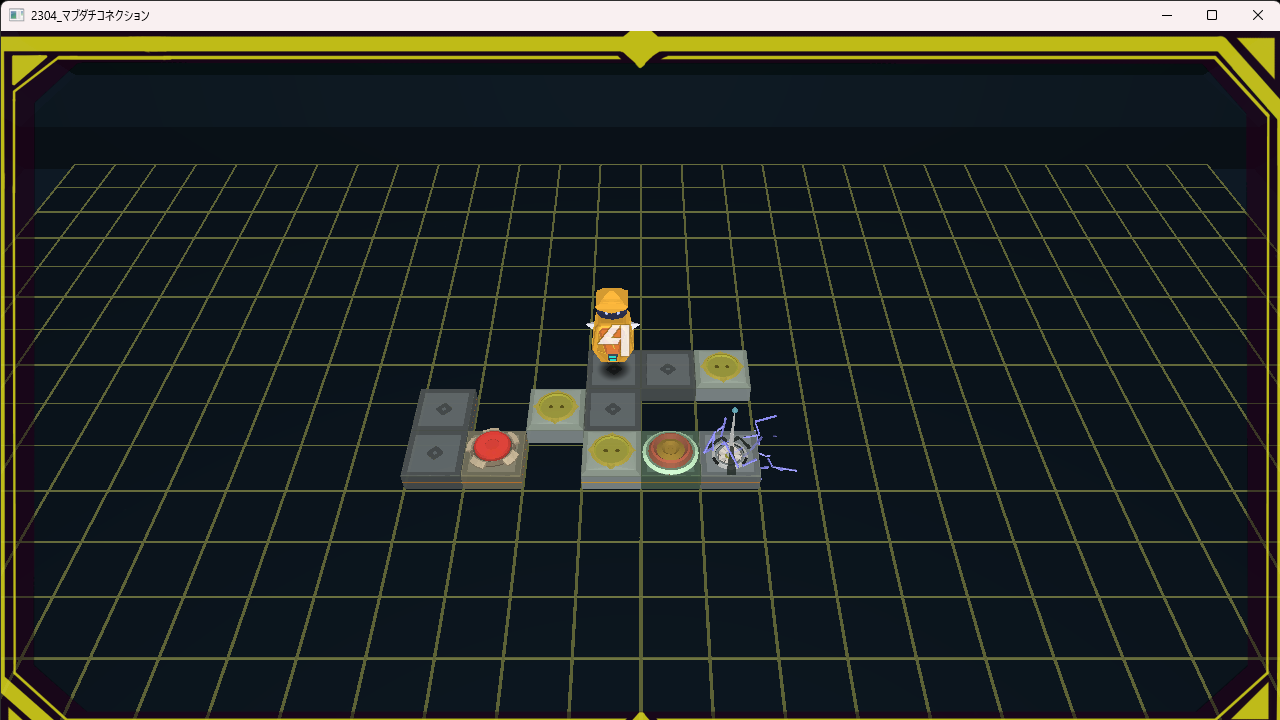
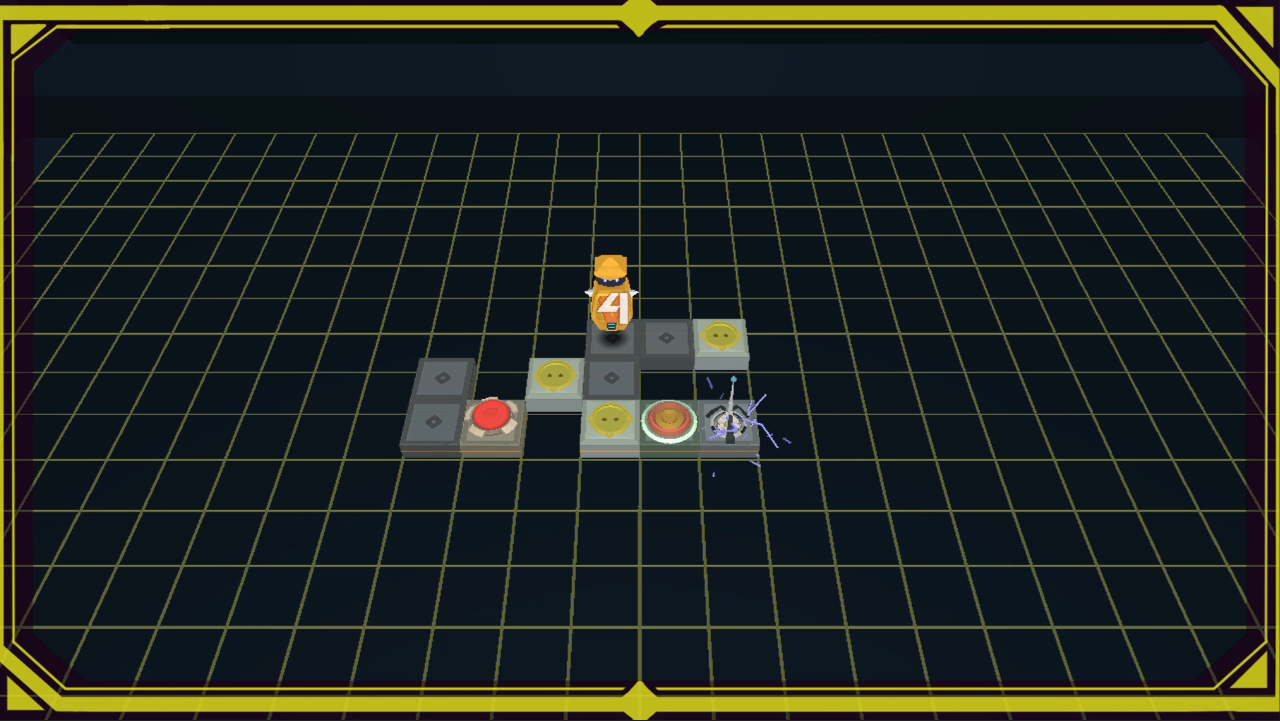
ヒント画像変更

diff --git a/Scene.cpp b/Scene.cpp
@@ -229,7 +229,7 @@ void SceneGame::Update()
 		}
 	}
 	//ステージセレクトに戻る
-	else if (KeyboardInput::GetInstance().KeyTrigger(DIK_Q) || KeyboardInput::GetInstance().KeyTrigger(DIK_ESCAPE))
+	else if ((KeyboardInput::GetInstance().KeyTrigger(DIK_Q) || KeyboardInput::GetInstance().KeyTrigger(DIK_ESCAPE)) && !Hint::GetInstance().GetIsDisplayingHint())
 	{
 		scene->cameraM->usingCamera = scene->cameraM->stageSelectCamera.get();
 		scene->ChangeState(new SceneStageSelect);
@@ -282,6 +282,7 @@ void SceneGame::DrawSprite()
 		{
 			obj[0].DrawBoxSprite({ 160,50,0 }, 0.2f, { 1.0f,1.0f,1.0f,1.0f }, scene->texhandle[3]);
 			obj[1].DrawBoxSprite({ 280,50,0 }, 0.2f, { 1.0f,1.0f,1.0f,1.0f }, scene->texhandle[4]);
+			obj[3].DrawBoxSprite({ 50,50,0 }, 0.2f, { 1.0f,1.0f,1.0f,1.0f }, scene->texhandle[7]);
 
 			scene->conectLimit_->Draw();
 			scene->rockOnImage->Draw(scene->cameraM.get()->usingCamera);
@@ -294,8 +295,11 @@ void SceneGame::DrawSprite()
 void SceneGame::DrawSprite2()
 {
 	if (!scene->player->isGoal)
-	{//Q
-		obj[3].DrawBoxSprite({ 50,50,0 }, 0.2f, { 1.0f,1.0f,1.0f,1.0f }, scene->texhandle[7]);
+	{//hint
+		count++;
+		float scale = 0.2f;
+		if (Hint::GetInstance().GetIsDisplayingHint()) { scale += sinf(count * 0.03f) * 0.01f; }
+		obj[4].DrawBoxSprite({ 400,50,0 }, scale, { 1.0f,1.0f,1.0f,1.0f }, scene->texhandle[10]);
 	}
 }
 
@@ -564,6 +568,8 @@ void Scene::Initialize()
 		TextureManager::LoadGraph(L"Resources/image/UI/UI_Border.png", texhandle[6]);
 		//Q
 		TextureManager::LoadGraph(L"Resources/image/backStageQ.png", texhandle[7]);
+		//hint
+		TextureManager::LoadGraph(L"Resources/image/hint.png", texhandle[10]);
 		//タイトル
 		TextureManager::GetInstance().LoadGraph(L"Resources/image/title.png", texhandle[9]);
 		TextureManager::GetInstance().LoadGraph(L"Resources/image/press_space.png", texhandle[8]);
